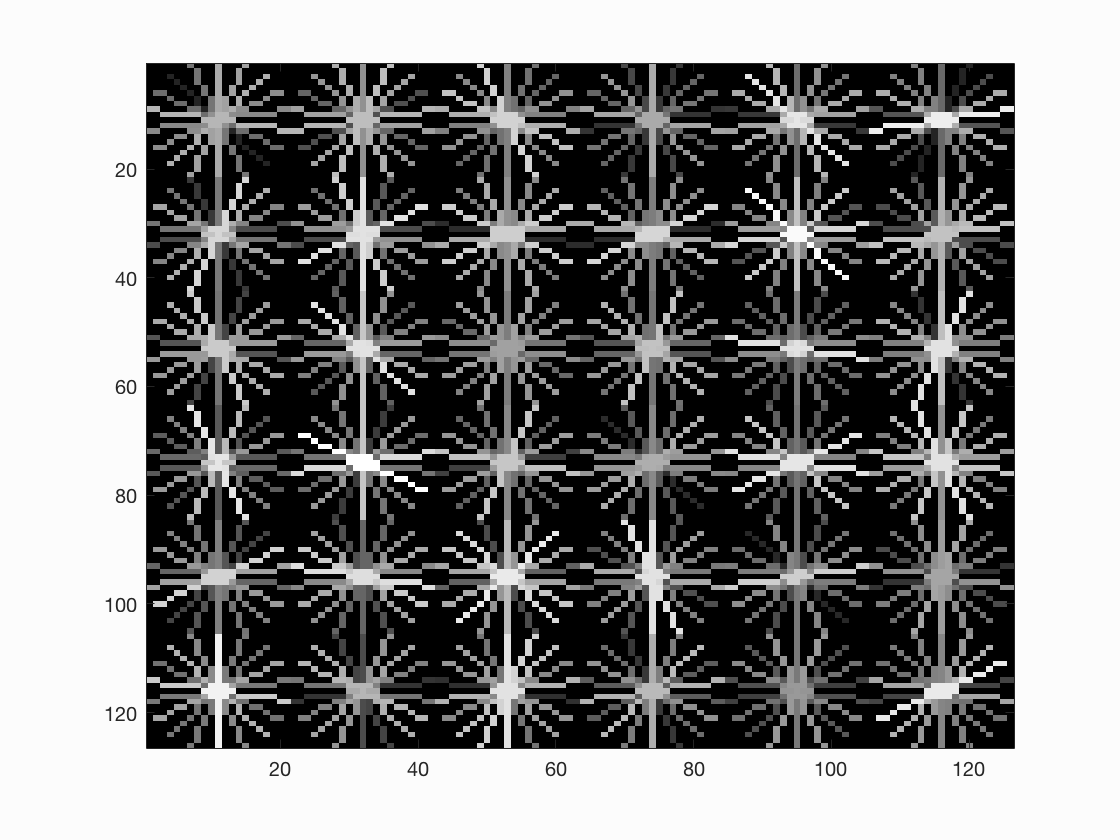
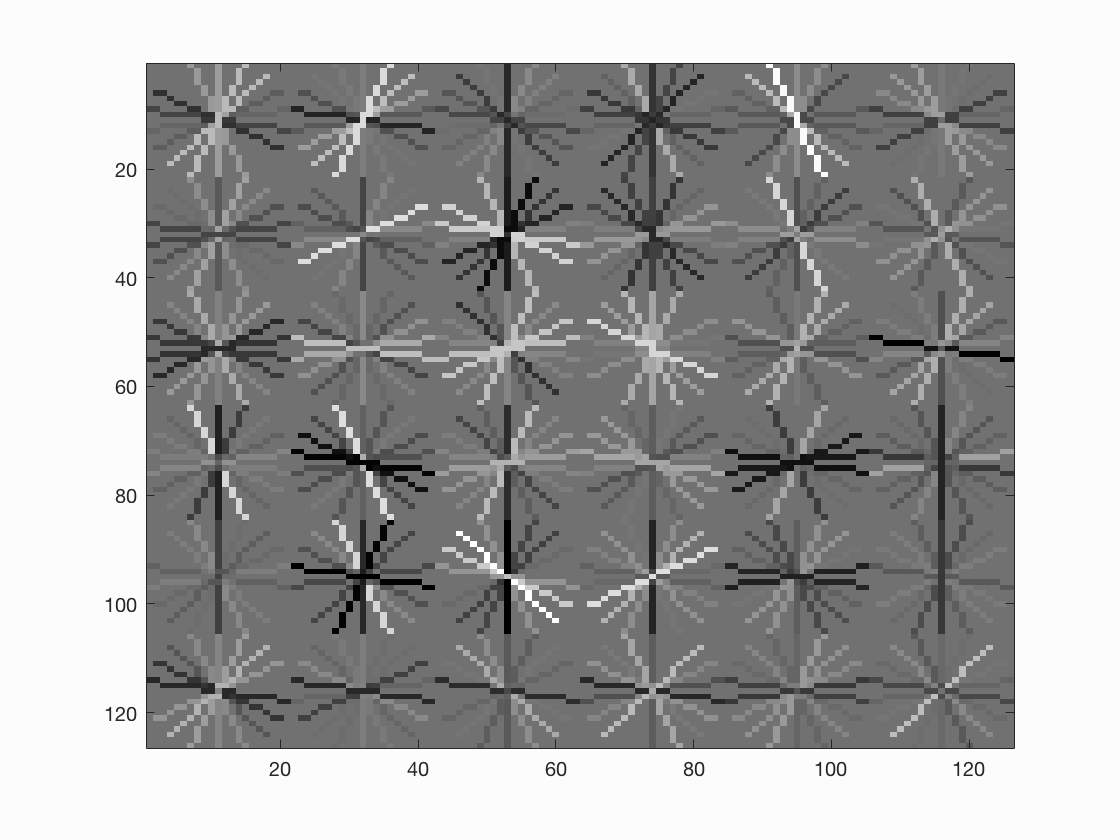
single scale detector done, with init true negative rate of 0.039

diff --git a/code/run_detector.m b/code/run_detector.m
@@ -46,6 +46,12 @@ bboxes = zeros(0,4);
 confidences = zeros(0,1);
 image_ids = cell(0,1);
 
+cell_size = feature_params.hog_cell_size;
+temp_size = feature_params.template_size;
+temp_cells = temp_size / cell_size;
+D_temp_dimension = (temp_cells)^2 * 31;
+
+score_threshold = 0.9;
 for i = 1:length(test_scenes)
       
     fprintf('Detecting faces in %s\n', test_scenes(i).name)
@@ -55,13 +61,42 @@ for i = 1:length(test_scenes)
         img = rgb2gray(img);
     end
     
+    scales = [1, 0];
     %You can delete all of this below.
     % Let's create 15 random detections per image
-    cur_x_min = rand(15,1) * size(img,2);
-    cur_y_min = rand(15,1) * size(img,1);
-    cur_bboxes = [cur_x_min, cur_y_min, cur_x_min + rand(15,1) * 50, cur_y_min + rand(15,1) * 50];
-    cur_confidences = rand(15,1) * 4 - 2; %confidences in the range [-2 2]
-    cur_image_ids(1:15,1) = {test_scenes(i).name};
+%     cur_x_min = rand(15,1) * size(img,2);
+%     cur_y_min = rand(15,1) * size(img,1);
+%     cur_bboxes = [cur_x_min, cur_y_min, cur_x_min + rand(15,1) * 50, cur_y_min + rand(15,1) * 50];
+%     cur_confidences = rand(15,1) * 4 - 2; %confidences in the range [-2 2]
+%     cur_image_ids(1:15,1) = {test_scenes(i).name};
+    scale = scales(1);
+    img_scaled = imresize(img, scale);
+    [height_scaled, width_scaled] = size(img_scaled);
+    
+    test_features = vl_hog(img_scaled, cell_size);
+    x_img_cell = floor(width_scaled / cell_size);
+    y_img_cell = floor(height_scaled / cell_size);
+    
+    num_window_x = x_img_cell - temp_cells + 1;
+    num_window_y = y_img_cell - temp_cells + 1;
+    
+    % reshape each features from the test to a row vector
+    window_feats = zeros( num_window_x * num_window_y, D_temp_dimension);
+    for x = 1:num_window_x
+        for y = 1:num_window_y
+            test_window = test_features( y:( y+temp_cells-1 ), x:( x+temp_cells-1), :);
+            window_feats( (x-1) * num_window_y + y, :) = reshape(test_window, 1, D_temp_dimension);
+        end
+    end
+    scores = window_feats * w + b;
+    indices = find(scores > score_threshold);
+    cur_confidences = scores(indices);
+    
+    detected_x = floor( indices ./ num_window_y );
+    detected_y = mod( indices, num_window_y ) - 1;
+    cur_bboxes = [  cell_size *  detected_x + 1,            cell_size *  detected_y + 1, ...
+                    cell_size * (detected_x + temp_cells),  cell_size * (detected_y + temp_cells)]./ scale;
+    cur_image_ids = repmat( {test_scenes(i).name}, size(indices,1), 1);
     
     %non_max_supr_bbox can actually get somewhat slow with thousands of
     %initial detections. You could pre-filter the detections by confidence,

diff --git a/code/proj4.m b/code/proj4.m
@@ -73,8 +73,14 @@ features_neg = get_random_negative_features( non_face_scn_path, feature_params, 
 % work best e.g. 0.0001, but you can try other values
 
 %YOU CODE classifier training. Make sure the outputs are 'w' and 'b'.
-w = rand((feature_params.template_size / feature_params.hog_cell_size)^2 * 31,1); %placeholder, delete
-b = rand(1); %placeholder, delete
+% w = rand((feature_params.template_size / feature_params.hog_cell_size)^2 * 31,1); %placeholder, delete
+% b = rand(1); %placeholder, delete
+lambda = 0.0001;
+
+svm_x = [features_pos', features_neg'];
+svm_y = [ ones( size(features_pos, 1), 1); -1*ones( size(features_neg, 1), 1)];
+
+[w b] = vl_svmtrain(svm_x, svm_y, lambda);
 
 %% step 3. Examine learned classifier
 % You don't need to modify anything in this section. The section first

diff --git a/code/get_positive_features.m b/code/get_positive_features.m
@@ -38,7 +38,7 @@ features_pos = zeros(num_images, (feature_params.template_size / feature_params.
 % randomize the order of files to remove bias from alphabetic
 % image_files = image_files( randperm(num_images) );
 for i = 1:num_images
-    fprintf('get positive features from %s\n', image_files(i).name)
+%     fprintf('get positive features from %s\n', image_files(i).name)
     
     img = imread( fullfile( train_path_pos, image_files(i).name ));
     
@@ -51,5 +51,5 @@ for i = 1:num_images
     
     features_pos( i,: ) = image_hog(:);
 end
-
+fprintf('get positive features with %d features.\n', num_images)
 % All feature bits are between 0 to 0.4

diff --git a/code/get_random_negative_features.m b/code/get_random_negative_features.m
@@ -45,7 +45,7 @@ features_neg = zeros(loop_num, (feature_params.template_size / feature_params.ho
 image_files = image_files( randperm(num_images) );
 
 for i = 1:loop_num
-    fprintf('Mining random negatives from %s\n', image_files(i).name)
+%     fprintf('Mining random negatives from %s\n', image_files(i).name)
     
     img = imread( fullfile( non_face_scn_path, image_files(i).name ));
     
@@ -59,3 +59,4 @@ for i = 1:loop_num
     
     features_neg( i,: ) = image_hog(:);
 end
+fprintf('Mining random negatives with %d negatives.\n', loop_num);
